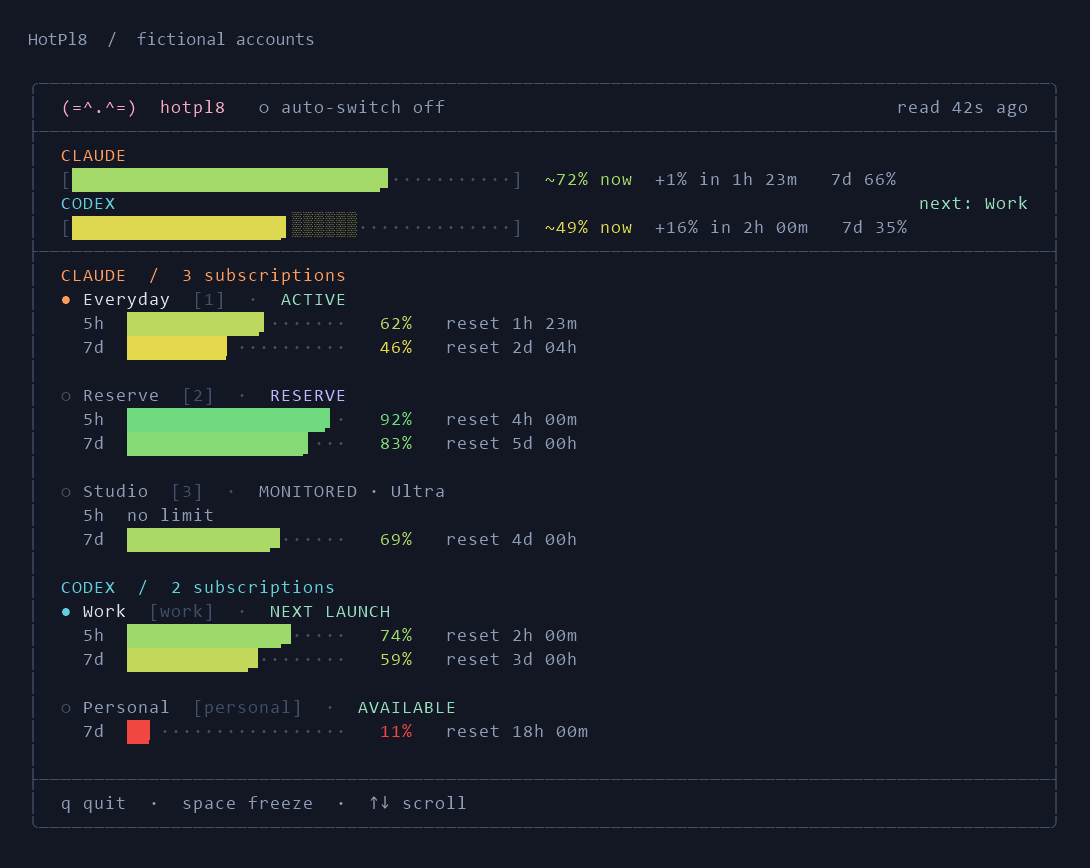
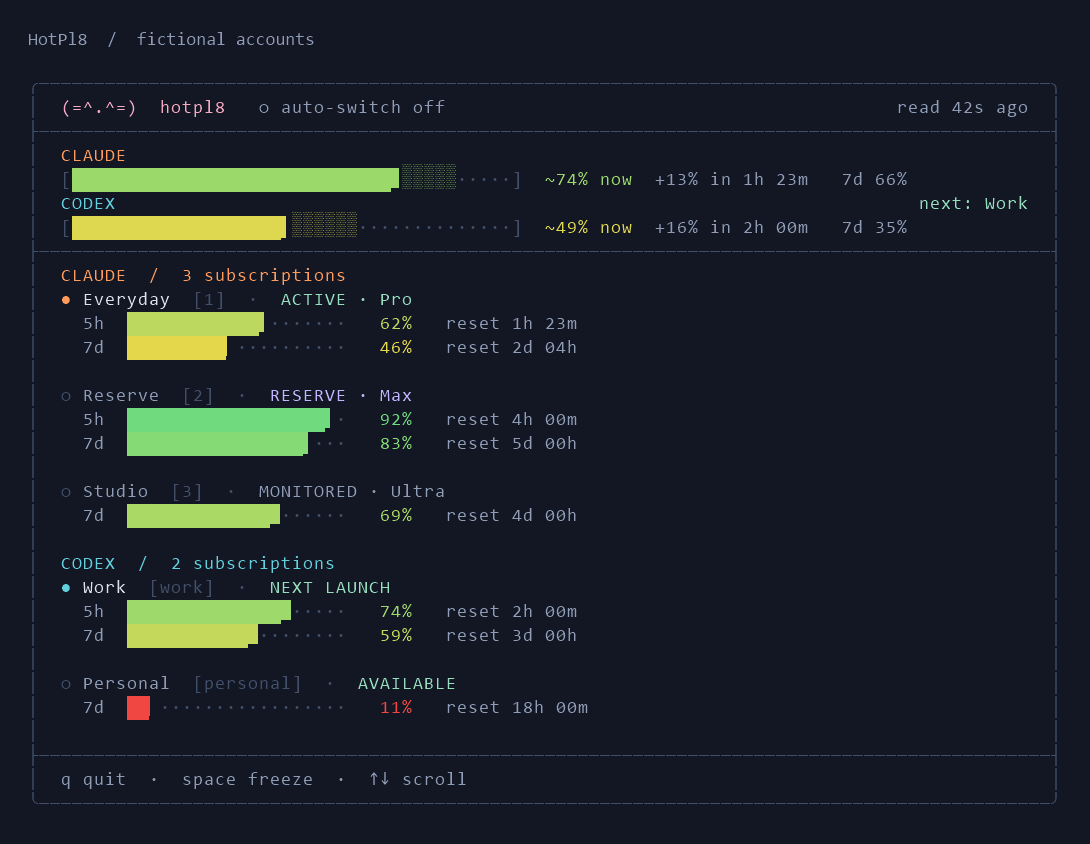
Drop the five-hour row from an Ultra account and name every plan in the demo
An account with no five-hour limit still drew a `5h` row saying so, on the dashboard, in `hotpl8 status`, on the session-start line and in the tray. It now has no five-hour part anywhere: only its week, with the plan beside its name saying why. Pro, Max and Codex keep the row, because those limits are real.

The demo showed no plan name through the installed launcher: two accounts had no plan at all, and the third's plan time was left in the past, so it read `plan unverified`. The demo accounts are now Pro, Max and Ultra, and their plan time follows the real clock unless a frame is drawn at the fixture's own with -FixedClock.

diff --git a/native/src/claude_tick.rs b/native/src/claude_tick.rs
@@ -694,7 +694,8 @@ pub fn claude_tick(request: &Request) -> R<Option<Collected>> {
         let (h5, h7) = (e.g("h5")?, e.g("h7")?);
         let no_limit = e.g("limit5h")?.eq_s("none")?;
         let unreported = e.g("limit5h")?.eq_s("unreported")?;
-        let five = if no_limit { "5h no limit".to_string() } else if unreported { "5h not reported".to_string() } else if h5.is_null() { "5h unknown".to_string() } else { format!("5h {}%", V::Dbl(100.0).sub(&h5)?.grouped(0)?) };
+        // An account with no five-hour limit has no five-hour part to its line.
+        let five = if no_limit { String::new() } else if unreported { "5h not reported  ".to_string() } else if h5.is_null() { "5h unknown  ".to_string() } else { format!("5h {}%  ", V::Dbl(100.0).sub(&h5)?.grouped(0)?) };
         let seven = if h7.is_null() {
             "7d not reported".to_string()
         } else {
@@ -743,7 +744,7 @@ pub fn claude_tick(request: &Request) -> R<Option<Collected>> {
             let note = if policy.g("claudeModels")?.t()? { format!("SCOPED CONSTRAINTS: {}", e.g("modelReason")?.s()?) } else { "SCOPED WINDOWS NOT RANKED ON".to_string() };
             lines.push(format!("  slot {n}  [{note}: {}]", shown.join(", ")));
         }
-        lines.push(format!("  slot {n}{}  {five}  {seven}{flag}", named(&label(n)?)));
+        lines.push(format!("  slot {n}{}  {five}{seven}{flag}", named(&label(n)?)));
     }
 
     // The pattern in force and whether the open windows keep to it, so a drift shows.
@@ -1711,7 +1712,7 @@ pub(crate) mod tests {
         let seen = alone("no-row-ultra", &detected(EMAIL_ONE, "claude-max-20x"));
         assert_eq!(first_slot(&seen), r#""none" true false null null null"#);
         assert_eq!(seen.calls, Vec::<String>::new());
-        assert!(seen.lines.contains("5h no limit") && !seen.lines.contains("incomplete") && !seen.lines.contains("STALE"), "{}", seen.lines);
+        assert!(!seen.lines.contains("5h") && seen.lines.contains("7d") && !seen.lines.contains("incomplete") && !seen.lines.contains("STALE"), "{}", seen.lines);
         assert!(!seen.lines.contains("warm"), "{}", seen.lines);
         assert_eq!(text(&seen.payload, "verdict"), r#""""#);
     }
@@ -1790,7 +1791,7 @@ pub(crate) mod tests {
     fn a_reading_too_old_is_stale_with_no_limit_too() {
         let seen = no_row("no-row-old", SOLO, &format!(r#""1":{}"#, detected(EMAIL_ONE, "claude-max-20x")), &account_read(1, EMAIL_ONE, 2000, WEEK));
         assert_eq!(first_slot(&seen), r#""none" false false null null null"#);
-        assert!(seen.lines.contains("5h no limit") && seen.lines.contains("[stale 2000s]") && seen.lines.contains("usage STALE (>15m), holding"), "{}", seen.lines);
+        assert!(!seen.lines.contains("5h") && seen.lines.contains("[stale 2000s]") && seen.lines.contains("usage STALE (>15m), holding"), "{}", seen.lines);
         assert_eq!(seen.calls, Vec::<String>::new());
     }
 

diff --git a/native/src/dashboard.rs b/native/src/dashboard.rs
@@ -798,8 +798,8 @@ impl Pass<'_> {
             }
             for (label, used, reset) in [("5h", "used5h", "reset5h"), ("7d", "used7d", "reset7d")] {
                 let key = cat!(provider.id, "|", id, "|", label);
+                // No five-hour limit, so no row for one: the plan beside the name says why.
                 if label == "5h" && slot.g("limit5h")?.eq_s("none")? {
-                    out.push(row("    5h  no limit", Tone::Muted));
                     continue;
                 }
                 out.push(self.quota(Reading { label, used: &slot.g(used)?, reset: &slot.g(reset)?, observed: &observed, unix: false, unconfirmed: false, stale: is_stale, key })?);
@@ -1812,6 +1812,11 @@ pub mod tests {
         of_account(&status, 3, r#""fresh":true"#, &format!(r#""fresh":{fresh}"#))
     }
 
+    /// The row drawn under the one that says this.
+    fn row_after<'a>(text: &'a str, said: &str) -> &'a str {
+        text.lines().skip_while(|line| !line.contains(said)).nth(1).unwrap_or("")
+    }
+
     /// Every row as wide as the frame, in the full layout and the compact one.
     fn fits(status: &str) {
         for size in [(100, 100), (60, 24), (48, 17)] {
@@ -1823,10 +1828,11 @@ pub mod tests {
     }
 
     #[test]
-    fn an_account_with_no_five_hour_limit_says_so_where_the_bar_would_be() {
+    fn an_account_with_no_five_hour_limit_has_no_five_hour_row() {
         let status = no_five_hour("none", true, "12:00:00", "claude-max-20x");
         let text = fleet(&status);
-        assert!(text.contains("ACTIVE · Ultra") && text.contains("5h  no limit"), "{text}");
+        assert!(text.contains("ACTIVE · Ultra") && !text.contains("no limit"), "{text}");
+        assert!(row_after(&text, "ACTIVE · Ultra").contains("7d"), "{text}");
         assert!(!text.contains("no reading") && !text.contains("STALE"), "{text}");
         fits(&status);
     }
@@ -1835,7 +1841,8 @@ pub mod tests {
     fn a_reading_too_old_is_stale_though_there_is_no_limit() {
         let status = no_five_hour("none", false, "11:27:00", "claude-max-20x");
         let text = fleet(&status);
-        assert!(text.contains("STALE · Ultra") && text.contains("5h  no limit") && text.contains("last read 33m ago"), "{text}");
+        assert!(text.contains("STALE · Ultra") && !text.contains("no limit") && text.contains("last read 33m ago"), "{text}");
+        assert!(row_after(&text, "STALE · Ultra").contains("7d"), "{text}");
         fits(&status);
     }
 

diff --git a/native/src/insights.rs b/native/src/insights.rs
@@ -169,13 +169,14 @@ pub fn format_status(status: &V, policy: &V, state_directory: &Path, now: Dto) -
         if view.g("provider")?.eq_s("claude")? {
             lines.push(safe_text(&cat!(name, ": active slot ", snapshot.g("active")?, " | ", snapshot.g("verdict")?)));
             for account in snapshot.g("slots")?.arr() {
+                // An account with no five-hour limit has no five-hour part to its row.
                 let five_hour = match account.g("limit5h")?.s()?.as_str() {
-                    "none" => "no limit".to_string(),
-                    "unreported" => "not reported".to_string(),
-                    _ => remaining_text(&account.g("used5h")?)?,
+                    "none" => String::new(),
+                    "unreported" => "5h not reported | ".to_string(),
+                    _ => format!("5h {} | ", remaining_text(&account.g("used5h")?)?),
                 };
                 let weekly = remaining_text(&account.g("used7d")?)?;
-                lines.push(safe_text(&cat!("  ", account.g("label")?, " [", account.g("slot")?, "] 5h ", five_hour, " | 7d ", weekly, " | ", account.g("status")?)));
+                lines.push(safe_text(&cat!("  ", account.g("label")?, " [", account.g("slot")?, "] ", five_hour, "7d ", weekly, " | ", account.g("status")?)));
                 if account.g("warmOutcome")?.t()? {
                     lines.push(cat!("    warm: ", account.path(&["warmOutcome", "outcome"])?));
                 }

diff --git a/native/src/tray.rs b/native/src/tray.rs
@@ -108,7 +108,7 @@ fn account_lines(snapshot: &V, policy: &V, now: Dto) -> R<Vec<String>> {
         let unreported = s.g("limit5h")?.eq_s("unreported")?;
         lines.push(cat!("Claude ", s.g("label")?, ": ", s.g("status")?, if fresh { "" } else if unreported { " / incomplete" } else { " / stale" }));
         if s.g("limit5h")?.eq_s("none")? {
-            lines.push(cat!("  no 5-hour limit; weekly used: ", used_text(&s.g("used7d")?)?));
+            lines.push(cat!("  weekly used: ", used_text(&s.g("used7d")?)?));
         } else if unreported {
             lines.push(cat!("  5h used: not reported; weekly used: ", used_text(&s.g("used7d")?)?));
         } else {

diff --git a/CHANGELOG.md b/CHANGELOG.md
@@ -2,7 +2,7 @@
 
 ## Unreleased — shared provider core
 
-- Use Anthropic's current plan names, and stop calling an Ultra account's reading stale because it has no five-hour limit. Max 5x now reads Max and Max 20x reads Ultra wherever a plan is shown, while the stored IDs `claude-max-5x` and `claude-max-20x` stay, so saved policies need no change; Codex's Pro 5x and Pro 20x are OpenAI's names and stay too. A good reading with a weekly window and no five-hour window is whole when the account's plan was detected as Ultra, or was at its last answer within a week while the plan cannot be asked: it shows `5h  no limit`, is not warmed or probed for that window, stays eligible on its weekly headroom and is not swapped for another account. The same reading on any other plan is a fault with its own name: `INCOMPLETE`, `5h not reported`, `slot N reported no 5-hour window, holding` and decision reason `five_hour_not_reported`. A reading that does have the window is measured whatever the plan, so an Ultra account still under a temporary limit is warmed and ranked as before. Ultra publishes no session multiplier, so its catalogue entry has none and a mix that includes Ultra counts each readable account equally instead of weighting it 20 to 1.
+- Use Anthropic's current plan names, and stop calling an Ultra account's reading stale because it has no five-hour limit. Max 5x now reads Max and Max 20x reads Ultra wherever a plan is shown, while the stored IDs `claude-max-5x` and `claude-max-20x` stay, so saved policies need no change; Codex's Pro 5x and Pro 20x are OpenAI's names and stay too. A good reading with a weekly window and no five-hour window is whole when the account's plan was detected as Ultra, or was at its last answer within a week while the plan cannot be asked: it has no five-hour row on any surface, only its week, is not warmed or probed for that window, stays eligible on its weekly headroom and is not swapped for another account. The same reading on any other plan is a fault with its own name: `INCOMPLETE`, `5h not reported`, `slot N reported no 5-hour window, holding` and decision reason `five_hour_not_reported`. A reading that does have the window is measured whatever the plan, so an Ultra account still under a temporary limit is warmed and ranked as before. Ultra publishes no session multiplier, so its catalogue entry has none and a mix that includes Ultra counts each readable account equally instead of weighting it 20 to 1.
 - Say when a Claude sign-in is about to end, a week ahead. A Claude sign-in has a fixed end, about a month after a person signed in. Renewing it in daily use replaces the token and leaves that date where it was, so an account in constant use is still signed out on the day, and Claude Code mentions it only inside its own screen, three days before. HotPl8 now reads the date from the credential files, publishes it as `signInEndsAt`, and names the account and `hotpl8 add -Provider claude` in the status line, the dashboard and the tray's notifications. An account past its end is called for at once, and no warm or recovery request is spent on it. On a Mac the active account has no date, because the Keychain does not show it and a file beside it can be out of date, so the warning does not cover that account there.
 - Correct a comment that said a warm request on the active Claude account used a sign-in of its own. `cswap run` has no separate session for the account already active, so that request runs on the live sign-in.
 - Keep the Windows collector and updater waking while every processor is busy. Their scheduled tasks ran at Task Scheduler priority 7, the default, which starts a task's program below normal on the processor and at low priority on the disk. Under a full load a wake then waited minutes for the processor, and the scheduler skipped the wakes due meanwhile, so the dashboard and the tray stopped changing until the load ended. Both tasks now run at priority 5. In a test with all 16 logical processors busy and a wake started every 10 s against a fictional account, 1 of 30 wakes finished at priority 7, after 110.7 s, and all 30 finished at 5, in at most 3.5 s. A task registered earlier is raised to 5 the next time the release is activated and the task is pointed at its new host; its triggers, identity, battery and enabled settings are kept. A Mac is unchanged. [Measurement](docs/delivery.md#native-scheduled-launchers).

diff --git a/docs/plans/rust-read-side.md b/docs/plans/rust-read-side.md
@@ -249,12 +249,14 @@ A verified Ultra account has no five-hour limit, and an unverified one has a tem
 
 What each surface says:
 
-| State | Dashboard | Overview | `hotpl8 status` | Tray |
-|---|---|---|---|---|
-| `none` | `ACTIVE · Ultra`, `5h  no limit` | `50% available now (estimate) / 50% weekly left; Ready` | `5h no limit` | `Claude Solo: ok`, `no 5-hour limit; weekly used: 50%` |
-| `none`, plan unanswered | as above, no plan tag, `plan unverified` | as above, no `Profiles:` line | as above | as above |
-| `none`, reading too old | `STALE · Ultra`, `5h  no limit`, `last read 33m ago  ·  awaiting update` | `No account readable now / 1 expired; awaiting update; Readings stale - refresh` | `[stale 2000s]`, `usage STALE (>15m), holding` | `Claude Solo: ok / stale`, `no 5-hour limit; weekly used: 50%` |
-| `unreported` | `INCOMPLETE · Max`, `5h ···· ? no reading`, `5-hour limit not reported  ·  hotpl8 explain` | `No account readable now / 1 reported no 5-hour window; Unavailable now - see details` | `5h not reported`, `[incomplete]`, `slot 1 reported no 5-hour window, holding` | `Claude Solo: ok / incomplete`, `5h used: not reported; weekly used: 50%` |
+`none` has no five-hour row or part on any surface. Only the week is shown, and the plan beside the name says why.
+
+| State | Dashboard | Overview | `hotpl8 status` | Session-start line (`status.txt`) | Tray |
+|---|---|---|---|---|---|
+| `none` | `ACTIVE · Ultra`, then `7d` | `50% available now (estimate) / 50% weekly left; Ready` | `Solo [1] 7d 50% remaining \| ok` | `slot 1  7d 50%` | `Claude Solo: ok`, `weekly used: 50%` |
+| `none`, plan unanswered | as above, no plan tag, `plan unverified` | as above, no `Profiles:` line | as above | as above | as above |
+| `none`, reading too old | `STALE · Ultra`, then `7d`, `last read 33m ago  ·  awaiting update` | `No account readable now / 1 expired; awaiting update; Readings stale - refresh` | as above, verdict `usage STALE (>15m), holding` | `[stale 2000s]`, `usage STALE (>15m), holding` | `Claude Solo: ok / stale`, `weekly used: 50%` |
+| `unreported` | `INCOMPLETE · Max`, `5h ···· ? no reading`, `5-hour limit not reported  ·  hotpl8 explain` | `No account readable now / 1 reported no 5-hour window; Unavailable now - see details` | `5h not reported`, verdict `slot 1 reported no 5-hour window, holding` | `5h not reported`, `[incomplete]`, `slot 1 reported no 5-hour window, holding` | `Claude Solo: ok / incomplete`, `5h used: not reported; weekly used: 50%` |
 
 ## Contract: reading Codex accounts
 
